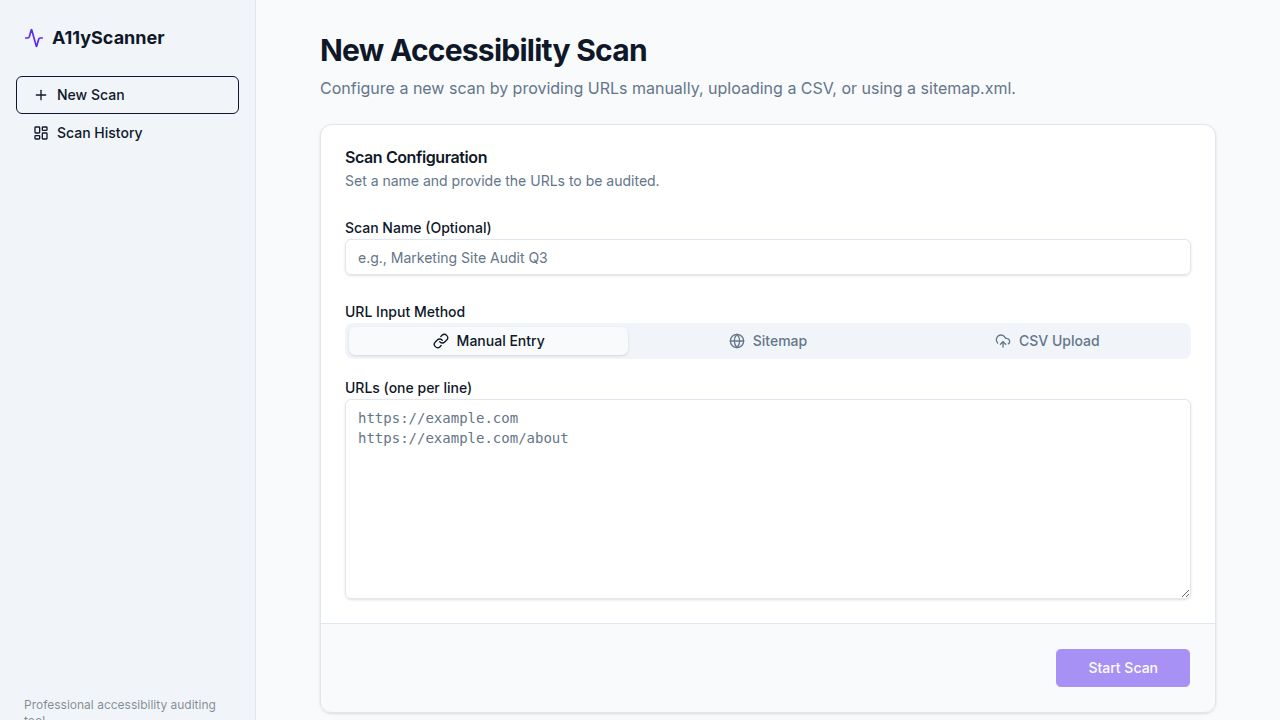
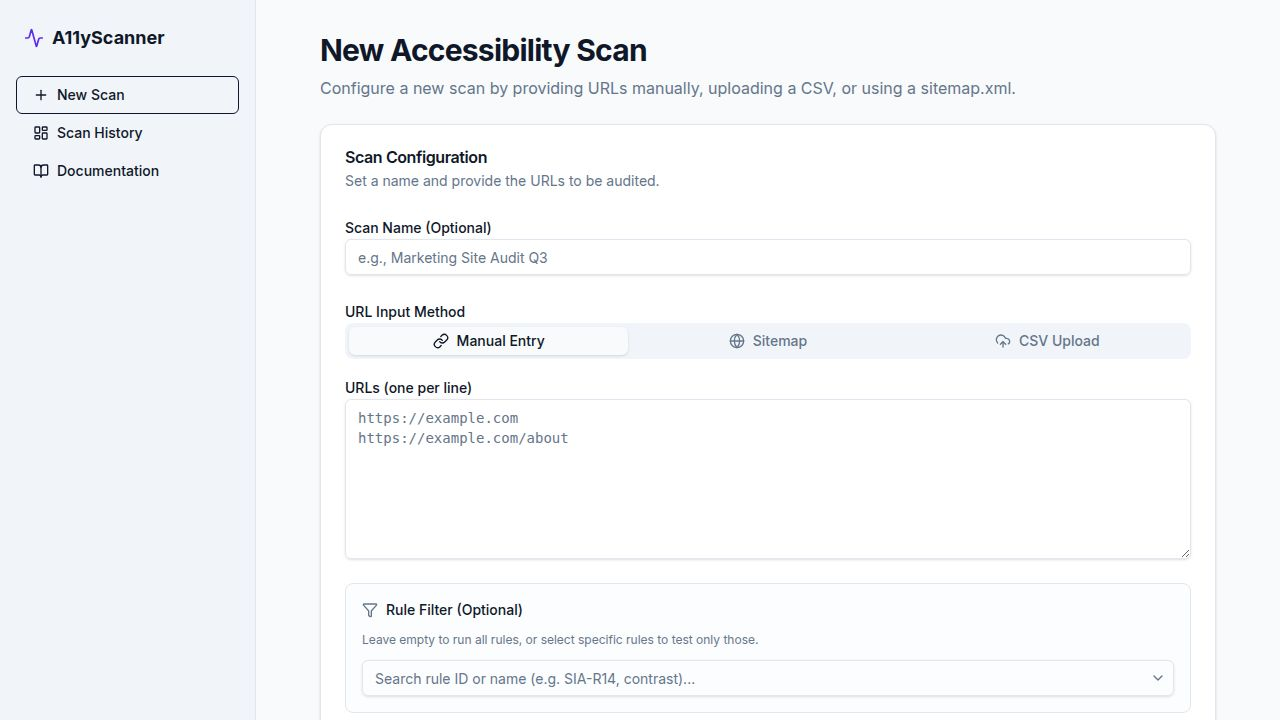
Add documentation page and link to the tool's left pane
Add a new Documentation page with usage guide, rule references, and legal information.

Replit-Commit-Author: Agent
Replit-Commit-Session-Id: ac31cd60-9613-428c-9b1c-92afbe976e82
Replit-Commit-Checkpoint-Type: full_checkpoint
Replit-Commit-Event-Id: 039b83ae-d855-4372-8e84-67b2666c8fa2
Replit-Commit-Screenshot-Url: https://storage.googleapis.com/screenshot-production-us-central1/45911319-1090-4416-a1d3-592fc66f5f8d/ac31cd60-9613-428c-9b1c-92afbe976e82/sem7qIc
Replit-Helium-Checkpoint-Created: true

diff --git a/artifacts/accessibility-scanner/src/pages/documentation.tsx b/artifacts/accessibility-scanner/src/pages/documentation.tsx
@@ -1,0 +1,110 @@
+import { Card, CardContent, CardDescription, CardHeader, CardTitle } from "@/components/ui/card";
+import { Badge } from "@/components/ui/badge";
+import { BookOpen, ShieldCheck, FileText, ExternalLink } from "lucide-react";
+
+const references = [
+  {
+    title: "Siteimprove Accessibility Rules",
+    description: "Use this as the primary rule reference when interpreting scanner findings and prioritizing fixes.",
+    links: [
+      { label: "Siteimprove Help Center", href: "https://help.siteimprove.com/" },
+      { label: "WCAG 2.1 Overview", href: "https://www.w3.org/WAI/standards-guidelines/wcag/" },
+    ],
+  },
+  {
+    title: "A11y ACT Tool Rules",
+    description: "This scanner maps a curated rule set to practical fixes for pages, components, and content flows.",
+    links: [
+      { label: "Scan History", href: "/scans" },
+      { label: "Settings", href: "/settings" },
+    ],
+  },
+];
+
+export default function Documentation() {
+  return (
+    <div className="space-y-6 max-w-4xl">
+      <div>
+        <Badge variant="secondary" className="mb-3">A11y ACT Tool</Badge>
+        <h1 className="text-3xl font-bold tracking-tight">Documentation</h1>
+        <p className="text-muted-foreground mt-1">
+          Help guide for scanning, reviewing results, and using reference standards responsibly.
+        </p>
+      </div>
+
+      <Card>
+        <CardHeader>
+          <div className="flex items-center gap-2">
+            <BookOpen className="w-5 h-5 text-muted-foreground" />
+            <CardTitle>Getting started</CardTitle>
+          </div>
+          <CardDescription>
+            Create a scan by entering URLs, uploading a CSV, or using a sitemap.xml source.
+          </CardDescription>
+        </CardHeader>
+        <CardContent className="space-y-3 text-sm leading-6 text-muted-foreground">
+          <p><span className="font-medium text-foreground">1.</span> Open <span className="font-medium">New Scan</span> and add one or more URLs.</p>
+          <p><span className="font-medium text-foreground">2.</span> Select specific rules when you want focused validation.</p>
+          <p><span className="font-medium text-foreground">3.</span> Enable proxy mode only when a PAC URL is configured in <span className="font-medium">Settings</span>.</p>
+          <p><span className="font-medium text-foreground">4.</span> Review scan details, expand issue rows, and export results as CSV, Excel, or PDF.</p>
+        </CardContent>
+      </Card>
+
+      <Card>
+        <CardHeader>
+          <div className="flex items-center gap-2">
+            <ShieldCheck className="w-5 h-5 text-muted-foreground" />
+            <CardTitle>Siteimprove Alfa rules reference</CardTitle>
+          </div>
+          <CardDescription>
+            Use the rule catalog to navigate findings and understand likely remediation paths.
+          </CardDescription>
+        </CardHeader>
+        <CardContent className="space-y-4 text-sm">
+          <p className="text-muted-foreground">
+            When a rule is triggered, review the issue summary first, then expand occurrences to inspect selectors, HTML, WCAG criteria, and conformance level.
+          </p>
+          <div className="grid gap-4 md:grid-cols-2">
+            {references.map((section) => (
+              <div key={section.title} className="rounded-lg border p-4 space-y-3">
+                <h3 className="font-medium">{section.title}</h3>
+                <p className="text-muted-foreground">{section.description}</p>
+                <div className="space-y-2">
+                  {section.links.map((link) => (
+                    <a
+                      key={link.label}
+                      href={link.href}
+                      className="flex items-center gap-1 text-primary hover:underline"
+                      target={link.href.startsWith("http") ? "_blank" : undefined}
+                      rel={link.href.startsWith("http") ? "noreferrer" : undefined}
+                    >
+                      {link.label}
+                      <ExternalLink className="w-3.5 h-3.5" />
+                    </a>
+                  ))}
+                </div>
+              </div>
+            ))}
+          </div>
+        </CardContent>
+      </Card>
+
+      <Card>
+        <CardHeader>
+          <div className="flex items-center gap-2">
+            <FileText className="w-5 h-5 text-muted-foreground" />
+            <CardTitle>Licensing and copyright</CardTitle>
+          </div>
+        </CardHeader>
+        <CardContent className="text-sm leading-6 text-muted-foreground space-y-3">
+          <p>
+            Siteimprove, WCAG, and any referenced standards, names, or trademarks remain the property of their respective owners.
+          </p>
+          <p>
+            This tool is provided for accessibility auditing and educational use. Always verify licensing terms before reproducing external documentation, rule text, or brand assets in your own materials.
+          </p>
+        </CardContent>
+      </Card>
+    </div>
+  );
+}

diff --git a/artifacts/accessibility-scanner/src/components/layout.tsx b/artifacts/accessibility-scanner/src/components/layout.tsx
@@ -1,5 +1,5 @@
 import { Link, useLocation } from "wouter";
-import { Activity, LayoutDashboard, Plus, Settings } from "lucide-react";
+import { Activity, BookOpen, LayoutDashboard, Plus, Settings } from "lucide-react";
 import { Button } from "@/components/ui/button";
 
 export function Layout({ children }: { children: React.ReactNode }) {
@@ -33,6 +33,15 @@ export function Layout({ children }: { children: React.ReactNode }) {
             >
               <LayoutDashboard className="w-4 h-4" />
               Scan History
+            </Button>
+          </Link>
+          <Link href="/documentation">
+            <Button
+              variant={location === "/documentation" ? "secondary" : "ghost"}
+              className="w-full justify-start gap-2"
+            >
+              <BookOpen className="w-4 h-4" />
+              Documentation
             </Button>
           </Link>
         </nav>

diff --git a/artifacts/accessibility-scanner/src/App.tsx b/artifacts/accessibility-scanner/src/App.tsx
@@ -9,6 +9,7 @@ import ScanList from "@/pages/scan-list";
 import ScanDetail from "@/pages/scan-detail";
 import ScanReport from "@/pages/scan-report";
 import Settings from "@/pages/settings";
+import Documentation from "@/pages/documentation";
 
 const queryClient = new QueryClient();
 
@@ -21,6 +22,7 @@ function Router() {
         <Route path="/scans/:id" component={ScanDetail} />
         <Route path="/scans/:id/report" component={ScanReport} />
         <Route path="/settings" component={Settings} />
+        <Route path="/documentation" component={Documentation} />
         <Route component={NotFound} />
       </Switch>
     </Layout>
